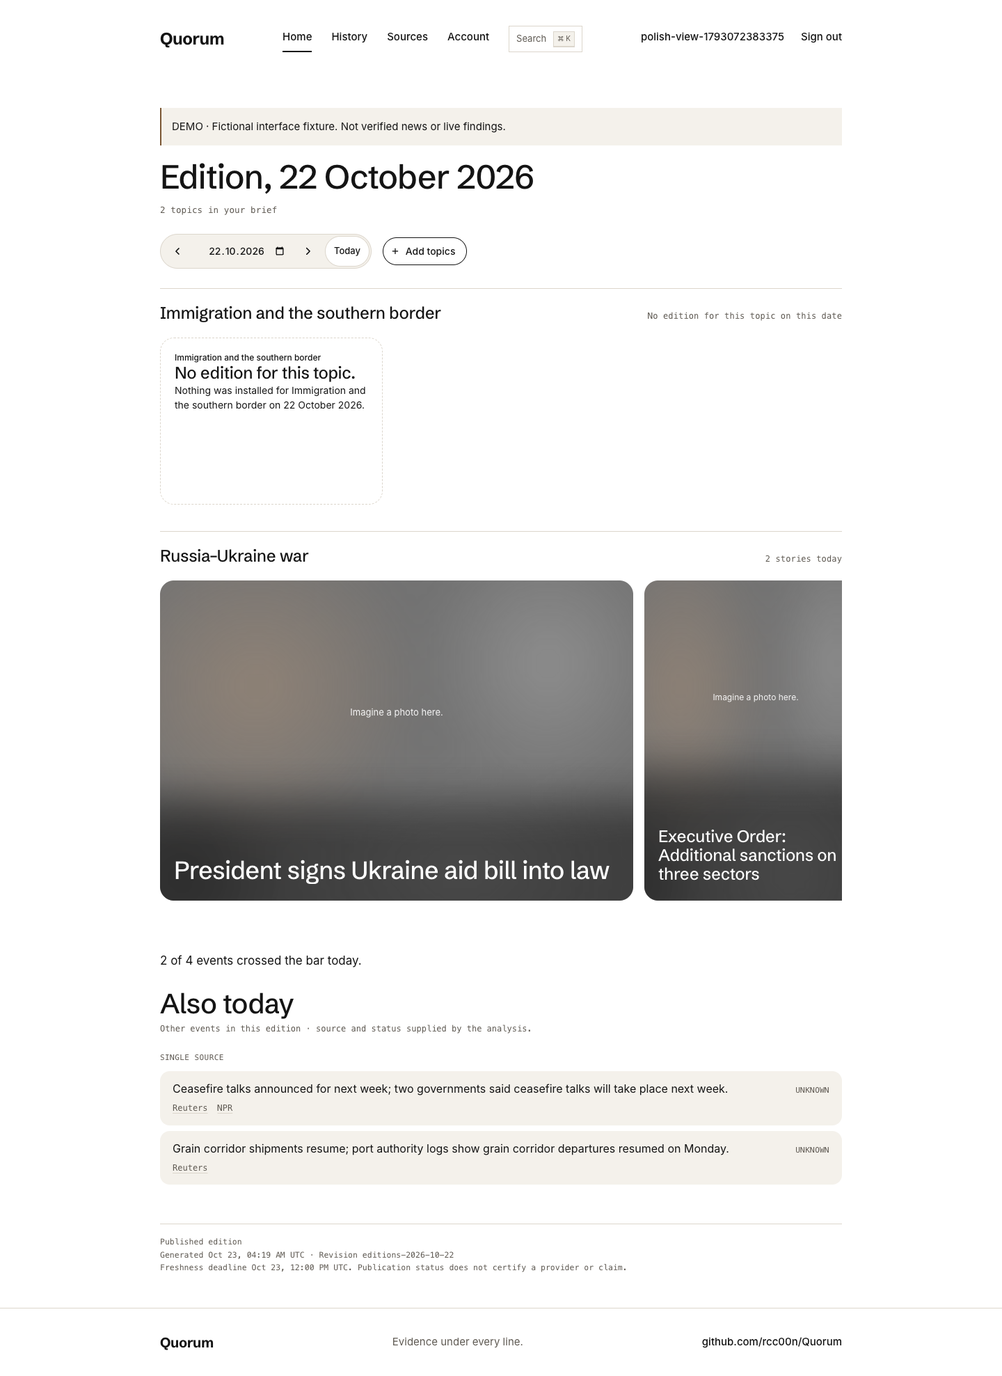
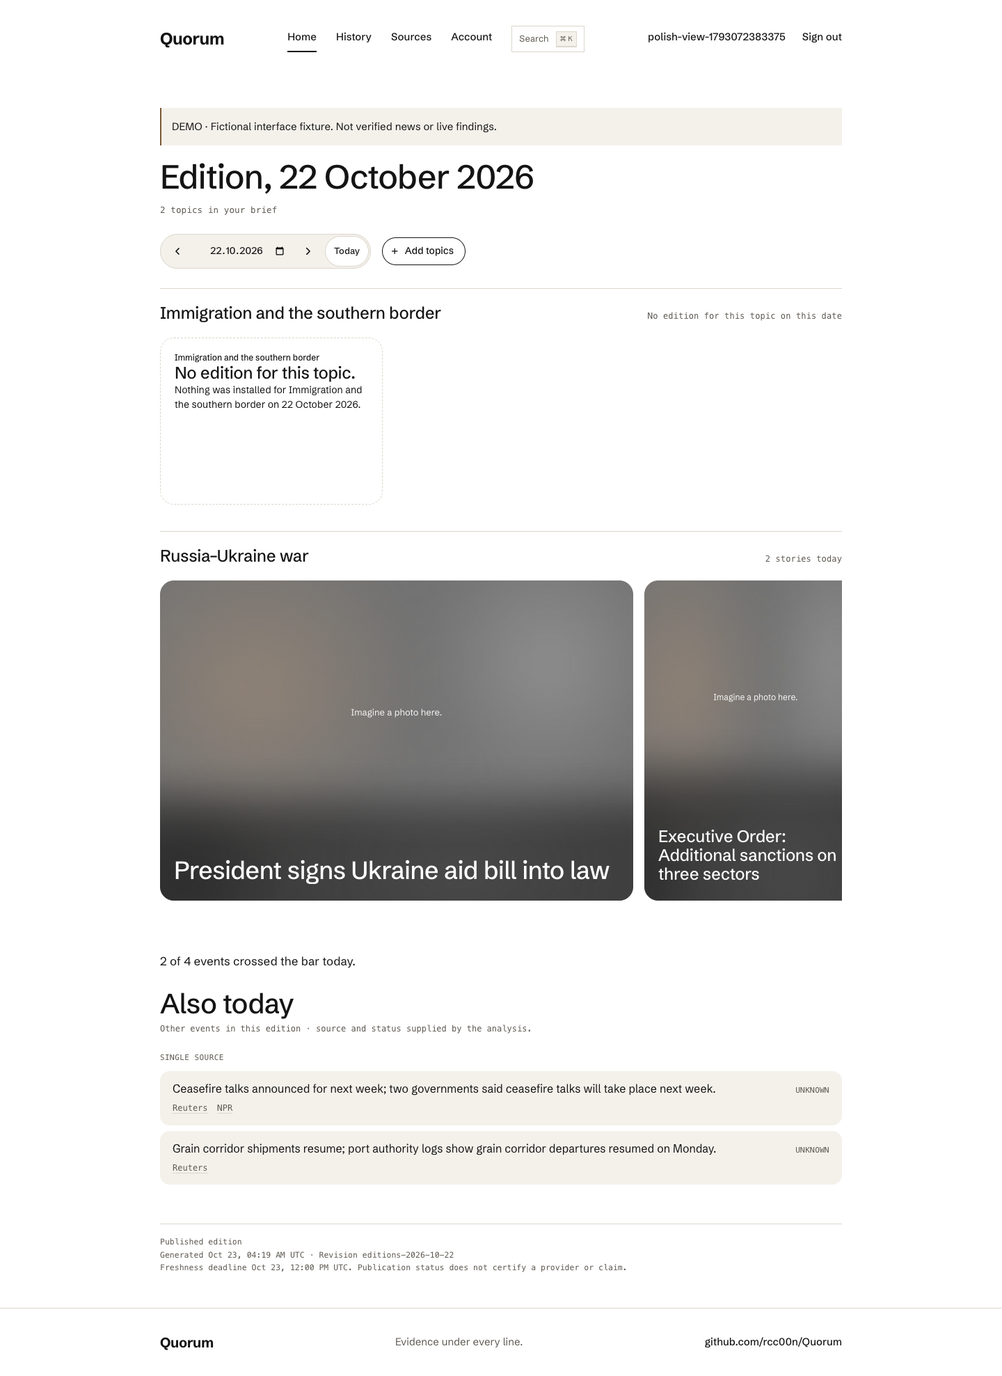
web(cabinet): app routes keep the canonical face; cabinet navigation recorded in DECISIONS
Vadim's review of PR #62: `--ui` aliases `--body` (Schibsted, DECISIONS
item 9) and the Inter proposal is deferred with its history kept in
identity.css and web/DESIGN.md; the menu labels Home / Account, the
topic management on Home and the Data cutoff wording are recorded in
docs/DECISIONS.md › User account and interface (cabinet navigation
amendment, the My topics label marked superseded) and its log. Review
pictures re-taken with the canonical face.

diff --git a/web/app/identity.css b/web/app/identity.css
@@ -27,7 +27,12 @@
      metadata in the mono; the landing and the gate keep --body. Why: Anastasia's reference of 2026-10-27,
      untitled.stream, sets everything in one neutral UI grotesque at small sizes with mono metadata, and the
      cabinet should read as a tool rather than a front page. DECISIONS item 9 is amended once she approves. */
-  --ui: "Inter Variable", -apple-system, system-ui, sans-serif;
+  /* DECISION(2026-10-27, Anastasia/Claude Code; Vadim's review of PR #62): the interface face on the app routes stays
+     the canonical grotesque of DECISIONS › User account and interface item 9, so `--ui` aliases `--body`; the Inter
+     proposal above is deferred, not deleted: a font change follows an explicit amendment of item 9 with human
+     approval, and then this one line changes. Why: AGENTS.md §1, no code contradicting a canonical decision while
+     its amendment is pending. Deferred value: "Inter Variable", -apple-system, system-ui, sans-serif. */
+  --ui: var(--body);
   --mono: ui-monospace, "SF Mono", Menlo, Consolas, monospace;
   /* DECISION(2026-10-26, Anastasia/Claude Code): one page measure for every route: content in a centred column
      of 1024 px including 22 px gutters (980 px of text), as on apple.com; a full-width bar or section reads

diff --git a/web/DESIGN.md b/web/DESIGN.md
@@ -97,7 +97,7 @@ No icons on the landing (2026-10-26); the app routes keep Lucide, 20 px, stroke 
 
 | Date | Who | What | Why |
 | --- | --- | --- | --- |
-| 2026-10-27 | Anastasia / Claude Code (cabinet pass, branch `anastasia/web-cabinet`) | The signed-in pages after untitled.stream (see › Cabinet): the board carries the topic picker behind a "+ Add topics" pill and opens it inline; one mono metadata line under the title replaces the status prose; the plain publication line becomes a mono colophon at the foot (warnings stay on top); "Also today" gets a heading of the title's weight, mono kickers and low rounded rows; the settings page becomes Account (name, email, password, sign out); the menu reads Home · History · Sources · Account; interface text on the app routes in Inter with display headings and mono metadata, as a proposal for Anastasia's approval before DECISIONS item 9 is amended and the rest of the site follows. Honesty texts unchanged; the smoke test reads the picker on the board. | Anastasia's review of 2026-10-27: the home should show the title with the date and then the topics with their news, nothing else; topics are managed where they are read; "Also today" should read as the second part after Today in rows that echo the cards; the reference's discipline of one thing per section, metadata in mono and a single "+" to add. |
+| 2026-10-27 | Anastasia / Claude Code (cabinet pass, branch `anastasia/web-cabinet`) | The signed-in pages after untitled.stream (see › Cabinet): the board carries the topic picker behind a "+ Add topics" pill and opens it inline; one mono metadata line under the title replaces the status prose; the plain publication line becomes a mono colophon at the foot (warnings stay on top); "Also today" gets a heading of the title's weight, mono kickers and low rounded rows; the settings page becomes Account (name, email, password, sign out); the menu reads Home · History · Sources · Account; interface text on the app routes was proposed in Inter with display headings and mono metadata; deferred on Vadim's review of PR #62 (the app routes keep DECISIONS item 9's Schibsted, `--ui` aliases `--body`), the mono metadata stays; the menu labels, the topic relocation and the cutoff wording are recorded canonically in docs/DECISIONS.md › User account and interface (cabinet navigation amendment). Honesty texts unchanged; the smoke test reads the picker on the board. | Anastasia's review of 2026-10-27: the home should show the title with the date and then the topics with their news, nothing else; topics are managed where they are read; "Also today" should read as the second part after Today in rows that echo the cards; the reference's discipline of one thing per section, metadata in mono and a single "+" to add. |
 | 2026-10-27 | Anastasia / Claude Code (WEB-SPECTRUM-POLISH-02, in Vadim's spectrum files with his agreement, Issue #2 6434220669 and 6434238558) | Source spectrum polish: registry-bound labels on the marks (major-tier `id` badges always on from 701 px, names on hover, focus and selection; collision stacking; phone badges only on the selected mark), the ledger behind a closed native disclosure with the count in its summary and the official and institutional sources grouped by `kind`, a 340 px field on phones, and a registry cohort table (`lib/spectrum-cohorts.ts`, exact node test) whose denominators are stated, whose audience column is the share of the supplied cited estimates summed as supplied (not deduplicated reach, not unique people), and where an uncited audience is counted apart, never as zero, so a cohort with members but no cited estimate shows no share (amended on Vadim's review of PR #52). Source ids, the four-mode formulas, keyboard navigation, reduced motion and the provenance disclosures are unchanged; his tests are extended, not replaced (the ledger is opened before a row is clicked; the source list is checked for completeness rather than feed order, since institutional rows now close the list). | Anastasia's review of the Sources page (Issue #2 6434191902): the field could not be read without the inspector, forty open rows made the page six screens long on a phone, and the cohorts DECISIONS defines were not shown; Vadim accepted the scope and asked for registry-derived labels and groups, stated denominators and no change to the formulas. |
 | 2026-10-27 | Anastasia / Claude Code | Missing-photo placeholder (polish pass, branch `anastasia/web-polish`): the story's lead slot and the Today cards show a blurred field of the identity's colours with the honest line "Imagine a photo here." and, on the story, one sentence saying the feature did not fit in the hackathon; the fill is `aria-hidden`, the sentence plain text, ink at about 11:1 on the field; a deliberate joke that states plainly what is missing. Same pass: a title per route, an SVG favicon in ink, the 404 and error pages on the gate surface with the masthead, the claims-only story appendix as blocks, the hero sheet's figures unwrapped on phones. | Anastasia's request of 2026-10-27 ("imagine that there were photos; we did not have time to add this feature"): an empty frame read as a bug, DECISIONS › Photos allows no photo, and a placeholder that says so cannot be mistaken for a photograph. |
 | 2026-10-26 | Anastasia / Claude Code | Story page (the event route when the reasoning output supplied a readable article; WEB-UX-05), chosen by a design panel of three directions (the printed page, nothing between, evidence in the margin) with a reader, a judge and a critic, "the printed page" with grafts: the breadcrumb and the lead photo on the 980 px column (2:1, 3:2 on phones, 8 px corners, the credit overlaid bottom right with the identity's one text shadow), every text element on a centred 560 px measure (date in ink, headline 40 px, grey standfirst, a counted meta line, the DECISIONS key line in the anatomy's slot, body 18/1.65), the sources as 12 px grey words after each paragraph (official titles and registry names, supporting citations only, one per independence group, "{speaker} says" only when the sentence lacks the name, a status word and no outlet after "Not confirmed."), two-digit claim keys shared with the Evidence Explorer's numbering, a hairline on the measure, the appendix head "Across the spectrum · Evidence and investigation" with a data line only from coverage and the importance row moved there; the workspace's sections unchanged beneath, their heads on the measure, eyebrows and icons hidden by CSS; the claims view untouched when no article exists. Since the same evening the reasoning preview fills `event.article` (backend/README.md › Decisions) and the event route reads the preview with `?preview=1`, so a reasoning story is readable as a story; on that path the claims come from `event.reasoning` and the marks carry names and links without claim keys. The production projection still emits no article. | Anastasia's brief of 2026-10-26: the prototype's indentation, ease of reading and photos, in our identity; Yelysei's story-page specification; DECISIONS › Stories as articles (status by typography, no evaluation, an appendix a reader need not reach). Pending: "Across the spectrum" per Yelysei's decision of 2026-10-26 (Issue #2, issuecomment-6425000264) corrected the same evening (issuecomment-6425781528): one paragraph per flank (left, right, centre when present; a paragraph per outlet only where a flank's outlets differ), answering in order what the outlets set out to convey, whether they present the fact as good or bad, who they hold responsible, why, and what they say should happen next, a question not addressed simply left out; every sentence backed by a short verbatim quote checked by code, shown as a link; it arrives as one new optional key inside `spectrum` with the reasoning PR (ARCHITECTURE § 8 and a sample), behind a flag until the portal's parser accepts the key; the page renders the current fields until then. |
@@ -120,7 +120,7 @@ Anastasia's reference of 2026-10-27, read from two screenshots of untitled.strea
 
 Adapted on the paper identity (the dark ground is not taken; the landing is untouched):
 
-- **Type on the app routes (proposal, her approval pending; DECISIONS item 9 amended when given).** Interface text in Inter (`--ui`, already packaged) at 15/1.5, secondary 13 in `--ink-2`; headings and card titles stay in the display face at 500; metadata (counts, states, dates, the publication colophon, the roundup's statuses and sources) in the mono at 11–12.5 px. The landing and the gate screens keep Schibsted throughout.
+- **Type on the app routes (proposal, deferred 2026-10-27 on Vadim's review of PR #62: the app routes keep the canonical Schibsted of DECISIONS item 9 and `--ui` aliases `--body` until item 9 is amended with human approval; the proposal stays here as history).** Interface text in Inter (`--ui`, already packaged) at 15/1.5, secondary 13 in `--ink-2`; headings and card titles stay in the display face at 500; metadata (counts, states, dates, the publication colophon, the roundup's statuses and sources) in the mono at 11–12.5 px. The landing and the gate screens keep Schibsted throughout.
 - **Home** (the board, menu label "Home"; the menu is Home · History · Sources · Account): the title "Today, 27 October 2026" (or "Edition, …" for another day), under it one mono line (the topic count, then a status sentence only when there is one), at the right the date control and the "+ Add topics" pill (ink hairline, round; inverted while open). The pill opens the first setup's topic picker inline under the header; saving reloads the board. With no topics the picker is open and the pill reads "Choose topics". The plain publication line moves to the foot of the page as a mono colophon; the warning panel (stale, partial, error) stays at the top. Topic sections: display heading 24 px, state in mono at the right, the row of cards unchanged.
 - **Also today** (the roundup under the board; markup Vadim's, styled here): the day's digest sentence at 17 px, the heading at the title's weight (clamp 30–40 px), the help line in mono, each status group as a mono kicker, each event as a low rounded row the width of the column (`--paper-2`, 14 px corners): the line at 16 px, its status label in mono at the right, its sources beneath in mono; on phones the label drops under the line. A status group with more than three events folds at the third: the first two rows whole, the third cut at 58 px and faded into the paper under a "Show N more" pill (round, ink hairline; "Show fewer" once open), the rest `hidden`; the fold is `components/roundup-group.tsx`, a client wrapper around Vadim's unchanged row markup.
 - **Story cards** (the board's rows): the picture area and the headline, nothing else; the topic name, standfirst, importance, source count and minutes are read on the story page. The headline sits at the foot in the display face (24 px, 36 px on the lead) on a translucent band (black at 46 % over the card's 60 %, about 78 % over the paper, as translucent as dark glass; 58 % over a real photograph) that darkens the same picture or blurred field, which runs under the whole card and fades into the band over its last 128 px with eased stops (a short linear ramp read as a hard edge; a glass pane with a crisp rim was tried and declined); the review label stays above the headline when the producer flagged the story; the "Imagine a photo here." note sits centred in the picture area at the credit's size.

diff --git a/docs/DECISIONS.md b/docs/DECISIONS.md
@@ -154,7 +154,9 @@ The account is built around the topics the user selects. The interface is simple
 10. **Daily-brief feedback (2026-10-25, Yelysei's proposal; amended 2026-10-26 per his review of PR #22 to the agreed status contract).** After the user asks for a brief (a requested topic, or a topic whose edition for the viewed date is not installed), the page says what is actually happening and what comes next, driven by the per-topic status file the reasoning runner writes (`<status-root>/<topic>/<date>.json`, states `queued`, `running`, `published`, `failed`, `waiting_for_key`): no file or `queued` → "Waiting for its first brief"; `running` or `waiting_for_key` → "Brief being prepared (since HH:MM UTC)"; `published` → "Ready"; `failed` → "Could not be prepared", with the reason. The facts the copy may state: runs are started by the owner after the 05:30 New York cut, on the owner's machine; a topic's first documents arrive 45–75 minutes after its collection row exists (about 10 minutes with `collectors.run --topic`); the edition is shown from the user's delivery time once the deploy owner has installed it. The portal has no "collecting since" date or publication count for a topic (a requested topic has no row at all), so the copy never shows them. The web app starts nothing itself (see "Daily editions for users"), so the page never promises a time it does not control. The wording is Yelysei's to approve; every sentence rests on a real state or an installed edition, never a placeholder.
 11. **Landing page (2026-10-25, Yelysei's proposal).** A public page for visitors and judges that presents Quorum as an Open Agent Hackathon 2026 entry (Track 03, Reasoning Architecture): the problem and the user, how the agents work and where they loop back, a real trace, what Zetaris, Meterless, NVIDIA Nemotron and the development tools do in the build, honest limits, and the team. Quality bar named in the proposal: greentrace-eudr.higgsfield.app and saphan.ai. Everything shown on it is backed by committed repository files; a real trace appears only as a public-safe excerpt the reasoning owner commits, and edition content stays behind the login under the publication gate (› Portal reconciliation limits, › Shared development coordination); nothing fictional is presented as a result.
 
-**Source-map navigation amendment (2026-10-26, Vadim / rcc00n, implemented with Codex).** The signed-in app adds `/sources`, reached through **Sources** between History and My topics. It presents the existing source registry, the four external rating modes and the agreed position × logarithmic cited-audience diagram, with source inspection and provenance. It describes registry sources, not which sources covered the current event. No new model call, axis, rating, audience estimate or backend contract. This supersedes only the earlier three-link navigation arrangement, retained in web/DESIGN.md as historical; the reading-first home and analysis appendices stay. Why: Vadim requested a separate frontend branch with a stronger interactive political spectrum and motion; the diagram needs a direct entry point instead of being buried under a story.
+**Source-map navigation amendment (2026-10-26, Vadim / rcc00n, implemented with Codex).** The signed-in app adds `/sources`, reached through **Sources** between History and My topics (the "My topics" label superseded 2026-10-27 by the cabinet navigation amendment below: between History and Account). It presents the existing source registry, the four external rating modes and the agreed position × logarithmic cited-audience diagram, with source inspection and provenance. It describes registry sources, not which sources covered the current event. No new model call, axis, rating, audience estimate or backend contract. This supersedes only the earlier three-link navigation arrangement, retained in web/DESIGN.md as historical; the reading-first home and analysis appendices stay. Why: Vadim requested a separate frontend branch with a stronger interactive political spectrum and motion; the diagram needs a direct entry point instead of being buried under a story.
+
+**Cabinet navigation amendment (2026-10-27, Anastasia / Claude Code, PR #62; recorded here on Vadim's review).** The signed-in menu reads **Home · History · Sources · Account**. The Today board is labelled Home and owns topic management: the first-setup topic picker opens inline under the board's header behind a "+ Add topics" pill ("Choose topics" when the account follows none) and saving reloads the board; the settings page is labelled Account and holds name, email, password and sign out. The "My topics" page and the Today label of the source-map amendment above are superseded 2026-10-27 and kept as history; the routes stay `/dashboard` and `/settings`. The board's countdown before 05:30 New York names the data cutoff ("Data cutoff in N hours"; the waiting card: a cutoff, not a publication time; the status strip's fact row "Data cutoff"), accepted by Vadim in the same review: the number is the end of data collection, and the run, dump and installation follow at no time the page can know. The interface face on the app routes stays item 9's grotesque; the cabinet pass's proposal of Inter for interface text is deferred until item 9 is amended with human approval, and is kept in web/DESIGN.md › Cabinet as history. Why: Anastasia's cabinet brief of 2026-10-27 after untitled.stream, topics managed where they are read and one thing per section; Vadim's review of PR #62 (AGENTS.md §1: no code contradicting a canonical decision while its amendment is pending). Details and screenshots: web/DESIGN.md › Cabinet, docs/reviews/2026-10-27-web-cabinet.
 
 ## Stack and work blocks
 
@@ -290,6 +292,7 @@ Every change to this document gets a row here. Newest rows on top. Rules are in 
 
 | Date | Who (human / tool) | What was decided | Why |
 | --- | --- | --- | --- |
+| 2026-10-27 | Anastasia / Claude Code (PR #62, recorded on Vadim's review) | Signed-in menu Home · History · Sources · Account; topics managed on Home behind "+ Add topics" (the My topics page superseded, kept as history); settings page labelled Account; the board's countdown says "Data cutoff", not a publication time; the Inter interface-face proposal deferred, app routes keep item 9's Schibsted (`--ui` aliases `--body`). See › User account and interface, cabinet navigation amendment. | Anastasia's cabinet brief after untitled.stream; Vadim's review: AGENTS.md §1 forbids merging code that contradicts item 9 while its amendment is pending; a font change follows an explicit human-approved amendment. |
 | 2026-10-27 | rcc00n / Codex, explicit instruction by Vadim | Authorize checked, visually inspected #54 and Paperclip-inspired polish deployment without another approval request, retaining individual-feature releases/rollback and normal CI/security gates. | Deliver the requested refinements incrementally without waiting on an extra look-approval step; preserve all data and other owners' scope. |
 | 2026-10-27 | rcc00n / Codex, production UI/UX audit requested by Vadim | Preserve date/topic URL state and contextual History; add calendar-day controls and bounded local sign-in return destinations. | Actual production navigation lost historical editions on refresh/History and shared-story context at sign-in; retain the approved identity and truthful edition states. |
 | 2026-10-27 | rcc00n / Codex | Add shared local destination search over loaded edition topics/stories, app pages and current-story analysis views; preserve exact date/revision links. | Faster navigation throughout the app without new API/inference requests or paid tooling. |

diff --git a/web/README.md b/web/README.md
@@ -81,7 +81,7 @@ Canonical reasoning 1.0 **FICTIONAL local preview** and exact sample pin: [integ
 
 Collected-corpus experiment labels follow [backend/README.md → Decisions](../backend/README.md#decisions). Producer declarations never authorize publication; fixture previews retain their fictional label.
 
-2026-10-27 · Anastasia / Claude Code · Cabinet pass (`anastasia/web-cabinet`): `components/today-board.tsx` owns the topic picker (`TopicPicker` from `topic-picker.tsx`, saved through the existing `preferences` call, then a reload) behind the "+ Add topics" control and renders one mono metadata line (the smoke test's sentences kept verbatim in their own spans); `components/portal.tsx` changes only the menu labels (Home, Account), the Account head and drops the picker from the settings grid; `app/identity.css` adds `--ui` (Inter) and `app/workspace.css` / `app/today.css` set the app routes' interface text in it with display headings and mono metadata, move the plain publication line to the foot on the board (`:has(.tb)`), and style `EditionNote`'s roundup as rounded rows; `tests/browser.cjs` reads the picker on `/dashboard`. Why: Anastasia's cabinet brief of 2026-10-27 after untitled.stream (DESIGN.md › Cabinet); markup of `editorial.tsx` untouched.
+2026-10-27 · Anastasia / Claude Code · Cabinet pass (`anastasia/web-cabinet`): `components/today-board.tsx` owns the topic picker (`TopicPicker` from `topic-picker.tsx`, saved through the existing `preferences` call, then a reload) behind the "+ Add topics" control and renders one mono metadata line (the smoke test's sentences kept verbatim in their own spans); `components/portal.tsx` changes only the menu labels (Home, Account), the Account head and drops the picker from the settings grid; `app/identity.css` adds `--ui` (proposed as Inter; deferred on Vadim's review of PR #62, it aliases `--body`, the canonical face of DECISIONS item 9) and `app/workspace.css` / `app/today.css` set the app routes' interface text in it with display headings and mono metadata, move the plain publication line to the foot on the board (`:has(.tb)`), and style `EditionNote`'s roundup as rounded rows; `tests/browser.cjs` reads the picker on `/dashboard`. Why: Anastasia's cabinet brief of 2026-10-27 after untitled.stream (DESIGN.md › Cabinet); markup of `editorial.tsx` untouched.
 2026-10-27 · Anastasia / Claude Code · Spectrum polish (WEB-SPECTRUM-POLISH-02, branch `anastasia/web-spectrum-polish`, Vadim's files with his agreement): `components/spectrum-field.tsx` exports `markLabel` and `labelLayout` (registry id badge for `tier === "major"`, name otherwise; edge anchoring and collision stacking) and renders an `aria-hidden` label in every mark; `components/spectrum.tsx` wraps the source rows in `details.sp-ledger` (closed by default, summary "All N sources") with `kind` official/military rows grouped last, and renders the registry cohort table from `lib/spectrum-cohorts.ts` (pure; `tests/spectrum-cohorts.cjs` binds exact values, mode change, null rating, zero and absent audience); `app/spectrum.css` carries the styles and the 340 px phone field. Tests extended: `spectrum-checks.cjs` (labels, cohort counts per mode), `sources-route-checks.cjs` (closed ledger, completeness by name, institutional group), `analysis.cjs` (opens the ledger before a row click). Why: Anastasia's review of the Sources page; the DECISIONS cohorts were defined but not shown; Vadim's limits (ids, formulas, keyboard, reduced motion, provenance intact; no dependency, no contract change).
 
 2026-10-27 · Anastasia / Claude Code · Polish pass (`anastasia/web-polish`, from master): `components/story.tsx` renders `PhotoMissing` in the lead slot when the article has no licensed photo (the blurred field and the sentence are constants there; styles in `app/story.css`), and `components/today-board.tsx` adds `tb-card-media-missing` with a short note (`app/today.css`); each route wrapper under `app/` exports its own `metadata.title` for the layout's `%s · Quorum` template; `app/icon.svg` is the favicon; `app/not-found.tsx` and `app/error.tsx` render on the gate surface with the masthead; `.story-page-plain .analysis-section` is a block; the hero sheet's figures do not wrap under 700 px. No file under `lib/`, no API contract, no spectrum component and no test selector changed. Why: the rough edges a judge meets first (an empty photo frame, an unreadable 404 button, overlapping appendix headings, one tab title everywhere) without touching the owners' contracts; see DESIGN.md › Decisions 2026-10-27.
